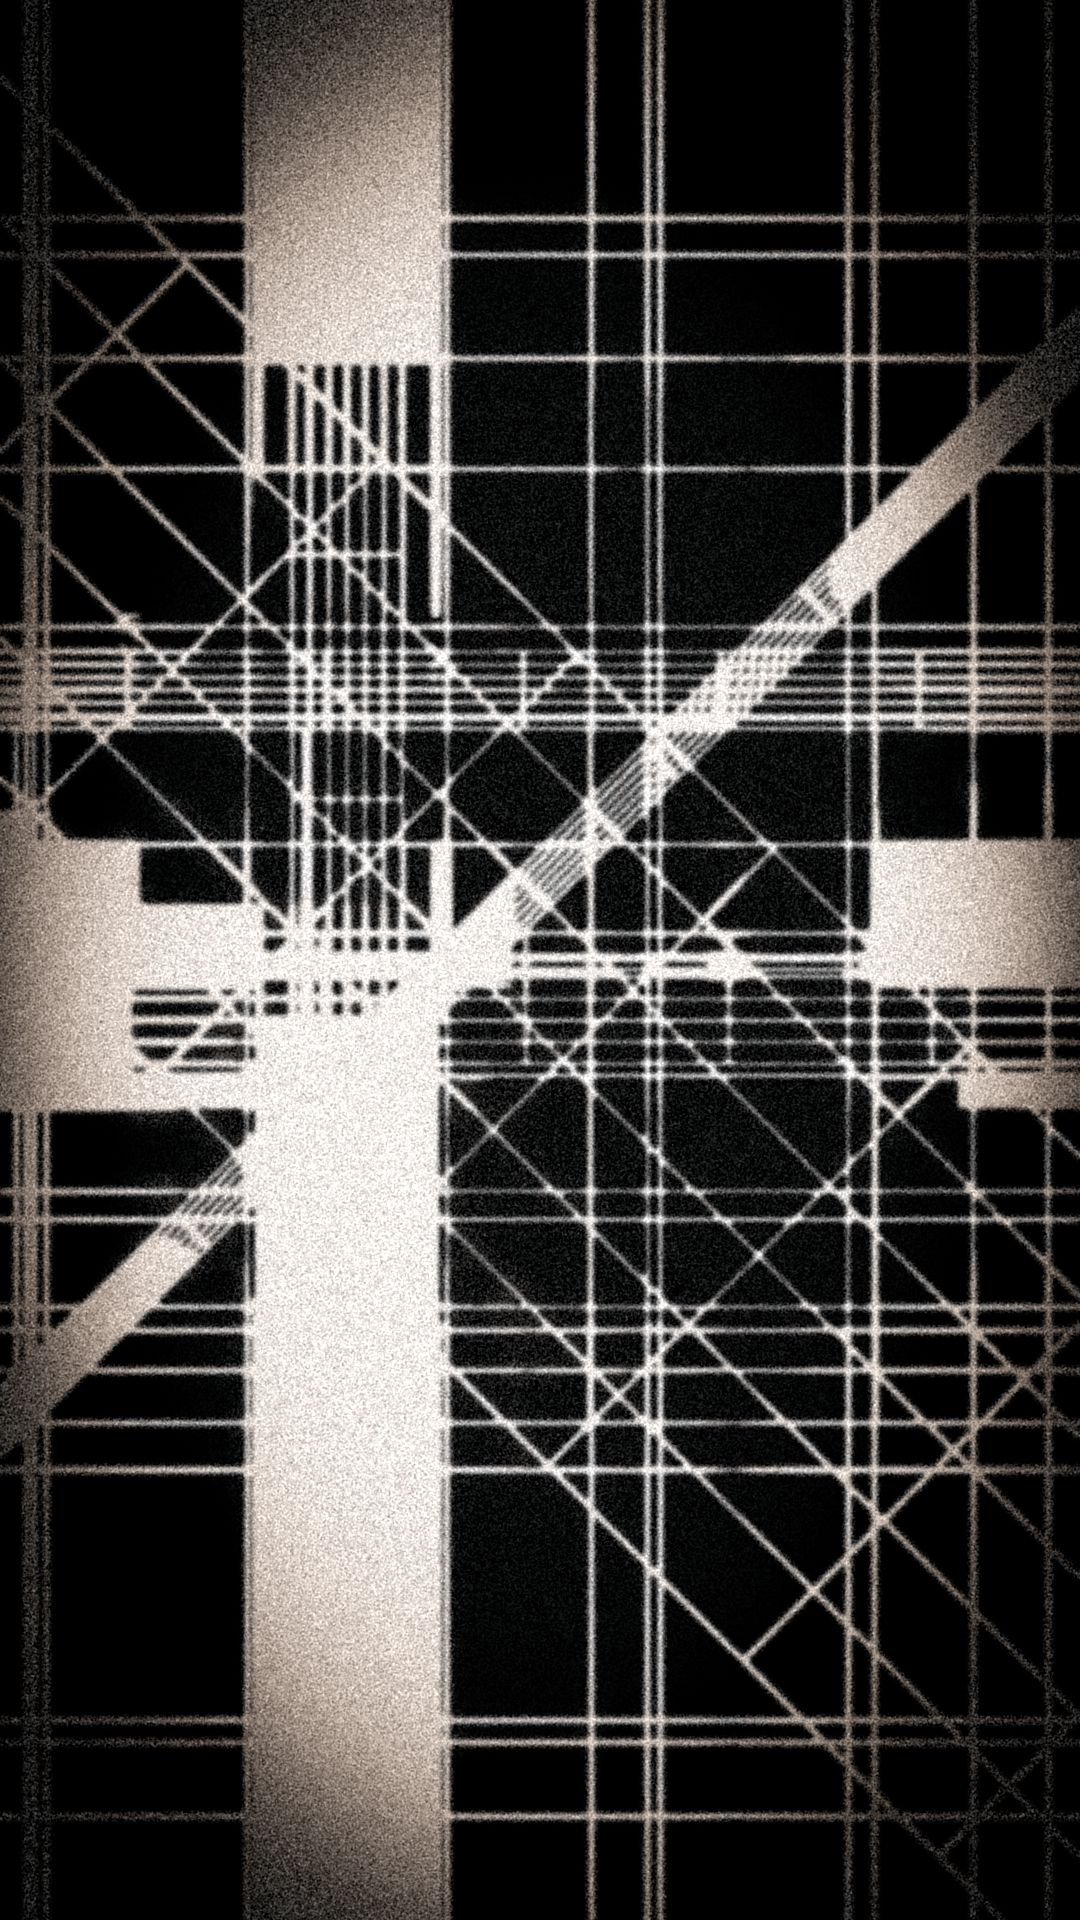
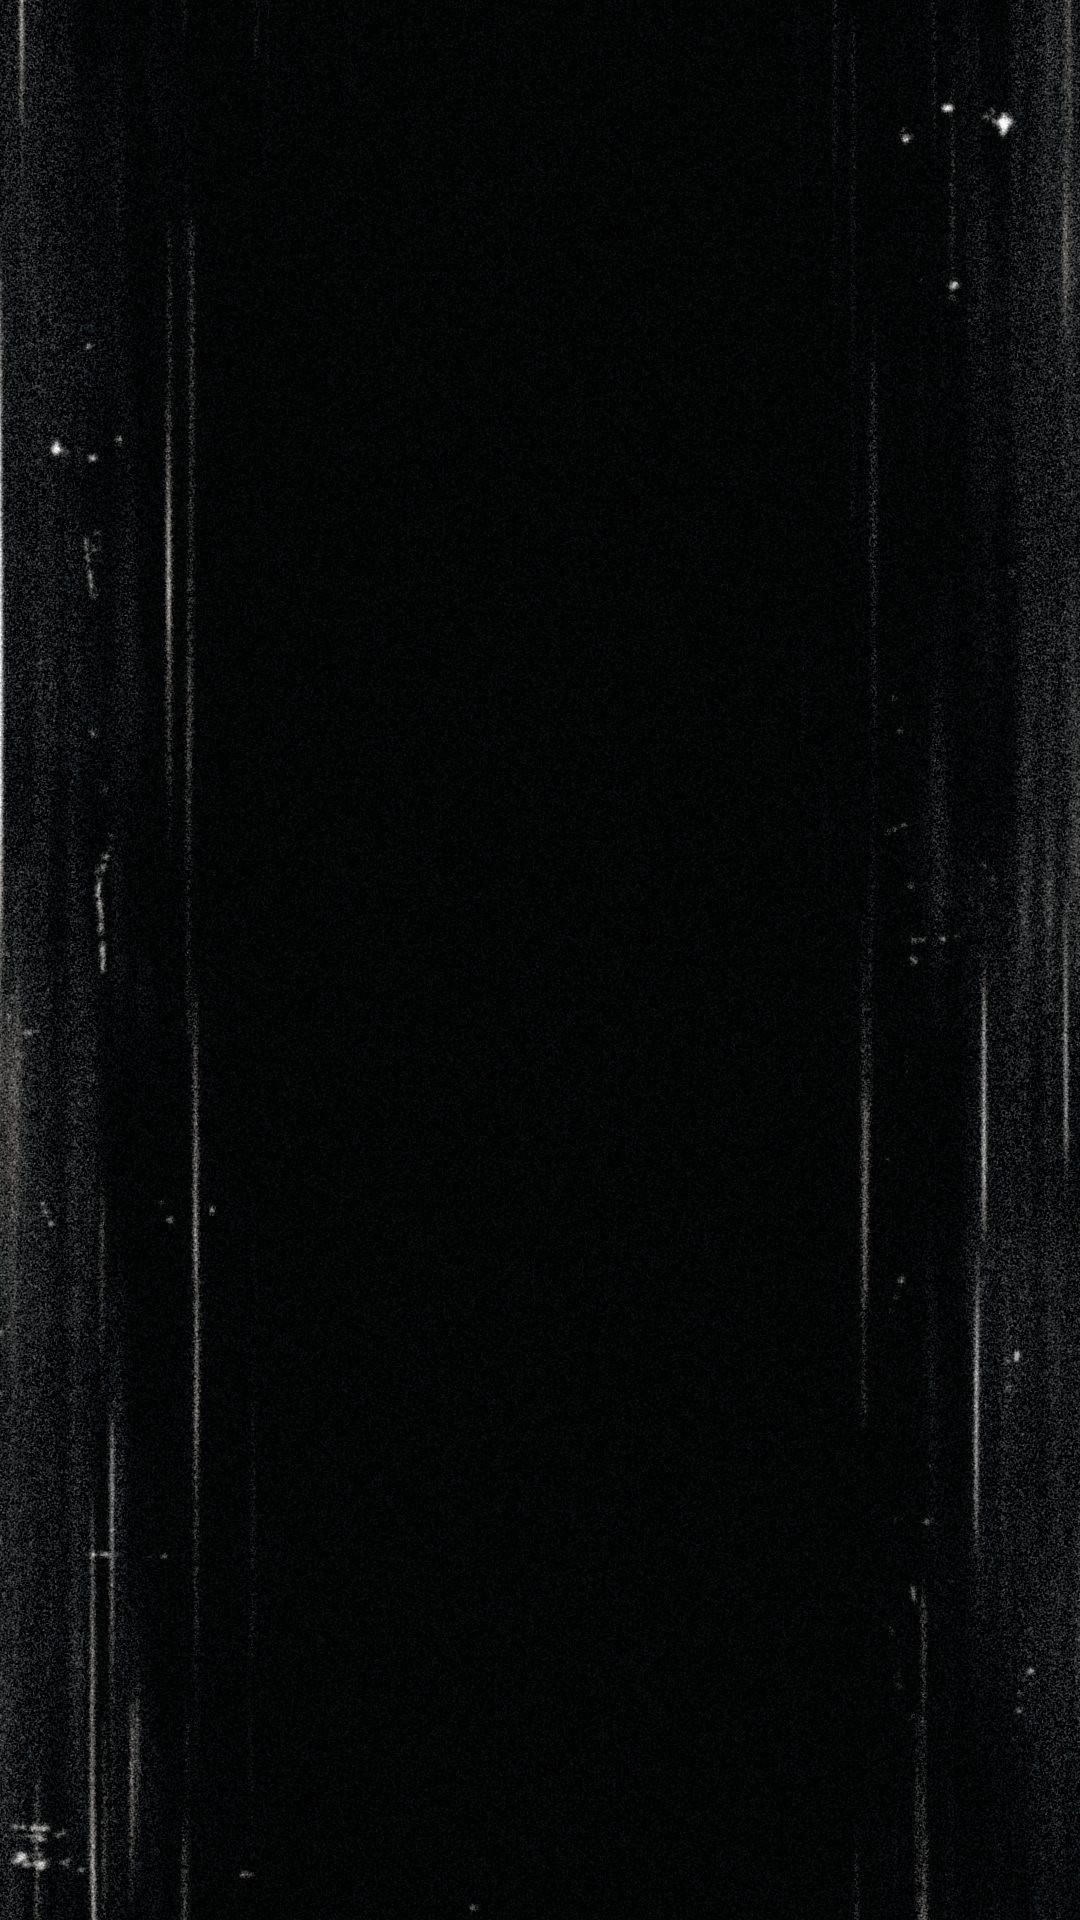
New film-burn backgrounds for desktop and mobile
Claude-Session: https://claude.ai/code/session_01NNJgYDTxByXa6iEVL1RpD7

diff --git a/index.html b/index.html
@@ -29,7 +29,7 @@
     :root {
       --bg-image: url("images/background.jpg");
       --bg-image-mobile: url("images/background-mobile.jpg");
-      --overlay: .35;
+      --overlay: .1;
       --column: #1b1b1d;
       --bg: #0b0b0c;
       --text: #e9e6e1;
@@ -221,9 +221,6 @@
     @media (max-width: 420px) {
       .logo-top { width: 36px; height: 36px; margin: -24px auto 44px; }
     }
-    /* Background image OFF — delete the next 2 lines to bring it back */
-    body::before, body::after { display: none !important; }
-    body { background: #0b0b0c; }
   </style>
 </head>
 <body>
